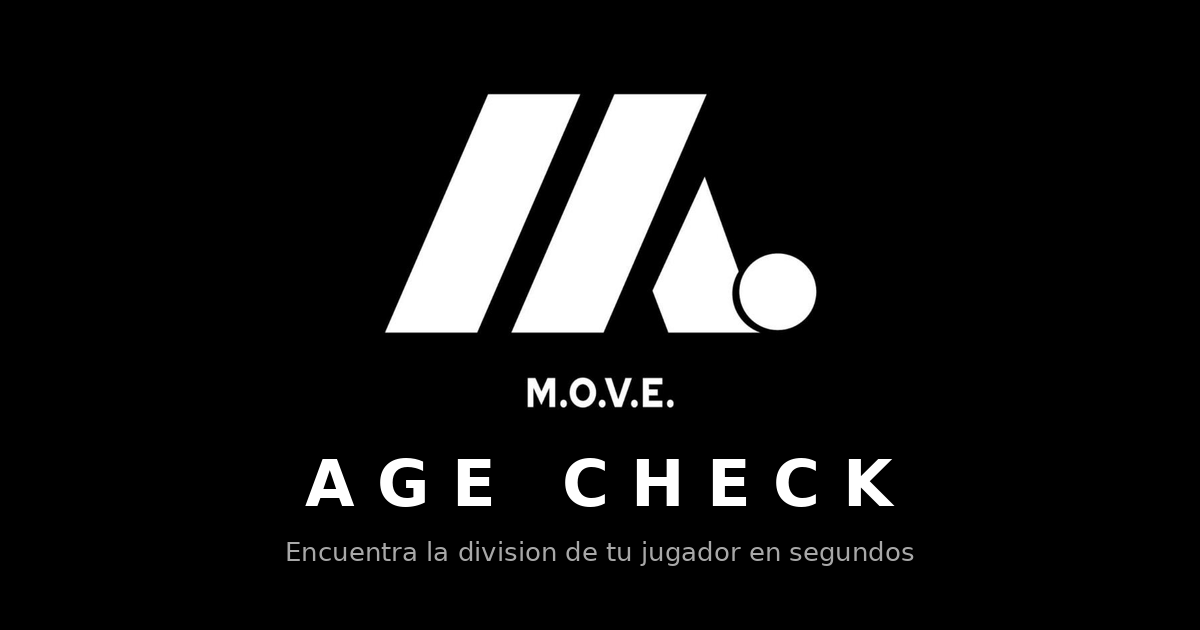
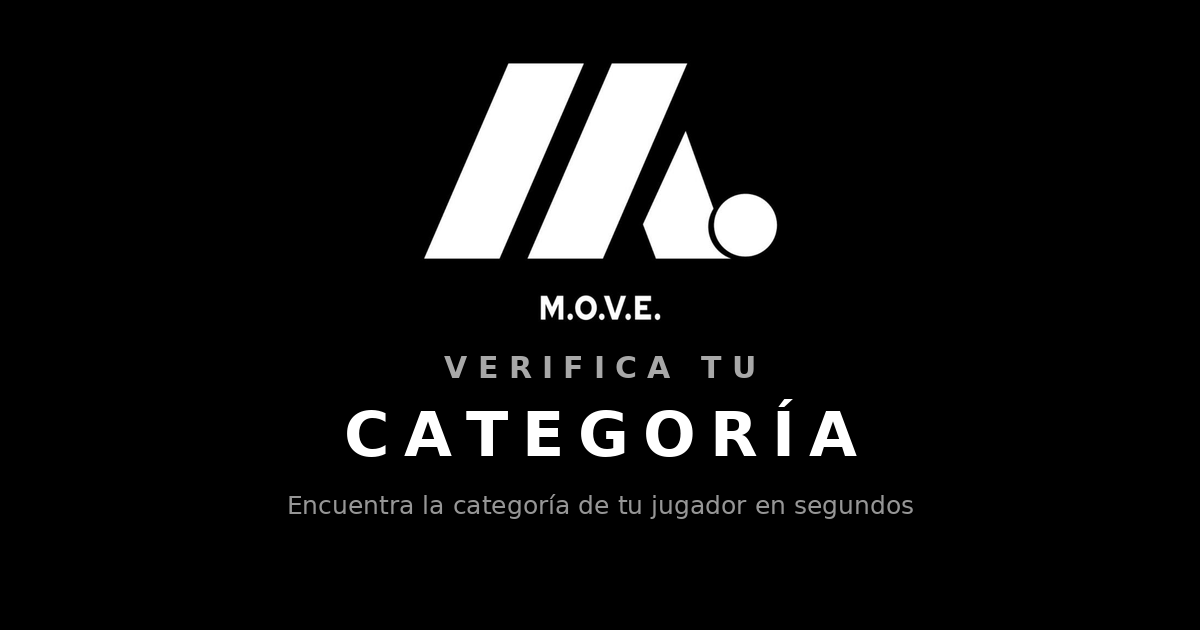
Add files via upload

Changed region(s): [[0.2158, 0.0905, 0.7708, 0.8143], [0.2467, 0.8444, 0.7708, 0.9048], [0.37, 0.181, 0.4008, 0.3317]]

diff --git a/index.html b/index.html
@@ -3,15 +3,15 @@
 <head>
 <meta charset="UTF-8">
 <meta name="viewport" content="width=device-width, initial-scale=1.0">
-<title>MOVE Age Check</title>
-<meta name="description" content="Encuentra la divisi&oacute;n de tu jugador en segundos. Corte de edad del ciclo con fecha l&iacute;mite 1 de julio de 2027.">
+<title>MOVE Verifica tu Categor&iacute;a</title>
+<meta name="description" content="Encuentra la categor&iacute;a de tu jugador en segundos. Corte de edad del ciclo con fecha l&iacute;mite 1 de julio de 2027.">
 <meta property="og:type" content="website">
-<meta property="og:title" content="MOVE Age Check">
-<meta property="og:description" content="Encuentra la divisi&oacute;n de tu jugador en segundos. Selecciona a&ntilde;o y mes de nacimiento y listo.">
-<meta property="og:image" content="https://move-agecheck.vercel.app/og-image.png">
+<meta property="og:title" content="MOVE Verifica tu Categor&iacute;a">
+<meta property="og:description" content="Encuentra la categor&iacute;a de tu jugador en segundos. Selecciona a&ntilde;o y mes de nacimiento y listo.">
+<meta property="og:image" content="https://categoria.thegriit.com/og-image.png">
 <meta property="og:image:width" content="1200">
 <meta property="og:image:height" content="630">
-<meta property="og:url" content="https://move-agecheck.vercel.app/">
+<meta property="og:url" content="https://categoria.thegriit.com/">
 <meta name="twitter:card" content="summary_large_image">
 <link rel="manifest" href="manifest.json">
 <link rel="apple-touch-icon" href="icon-192.png">
@@ -55,12 +55,30 @@
     margin: 0 auto 10px;
   }
   .app-name {
-    font-size: 26px;
+    font-size: 15px;
+    font-weight: 700;
+    letter-spacing: 0.3em;
+    text-transform: uppercase;
+    margin: 0 0 2px;
+    padding-left: 0.3em;
+    color: var(--gray-4);
+  }
+  .app-name-main {
+    font-size: 30px;
     font-weight: 800;
-    letter-spacing: 0.28em;
+    letter-spacing: 0.18em;
     text-transform: uppercase;
     margin: 0;
-    padding-left: 0.28em;
+    padding-left: 0.18em;
+  }
+  .season {
+    font-size: 12px;
+    font-weight: 700;
+    letter-spacing: 0.22em;
+    text-transform: uppercase;
+    color: var(--gray-3);
+    margin: 8px 0 0;
+    padding-left: 0.22em;
   }
   .diag-rule {
     height: 3px;
@@ -92,7 +110,8 @@
     display: grid;
     gap: 10px;
   }
-  .grid-years { grid-template-columns: 1fr 1fr; }
+  .grid-years { grid-template-columns: 1fr 1fr 1fr; }
+  .grid-years .btn { font-size: 19px; padding: 16px 4px; }
   .grid-months { grid-template-columns: 1fr 1fr 1fr; }
   .btn {
     background: var(--gray-1);
@@ -263,7 +282,9 @@
 <div class="wrap">
   <header>
[1 lines of base64/hex data omitted]
-    <h1 class="app-name">Age Check</h1>
+    <p class="app-name">Verifica tu</p>
+    <h1 class="app-name-main">Categor&iacute;a</h1>
+    <p class="season">Temporada 2026&ndash;2027</p>
     <div class="diag-rule"></div>
   </header>
 
@@ -352,12 +373,7 @@
 
     var grid = el("div", "grid grid-years");
 
-    var older = el("button", "btn btn-wide", "2007 o antes");
-    older.type = "button";
-    older.addEventListener("click", function () { renderResult(null, null, "older"); });
-    grid.appendChild(older);
-
-    for (var y = 2008; y <= 2018; y++) {
+    for (var y = 2008; y <= 2019; y++) {
       (function (year) {
         var b = el("button", "btn", String(year));
         b.type = "button";
@@ -365,11 +381,6 @@
         grid.appendChild(b);
       })(y);
     }
-
-    var younger = el("button", "btn btn-wide", "2019 o despu\u00e9s");
-    younger.type = "button";
-    younger.addEventListener("click", function () { renderResult(2019, null, null); });
-    grid.appendChild(younger);
 
     step.appendChild(grid);
     app.appendChild(step);
@@ -430,7 +441,7 @@
       birthText = "Nacido en 2007 o antes";
     } else if (year !== null && monthIndex === null) {
       division = YOUNGEST_DIVISION;
-      birthText = year >= 2019 ? "Nacido en 2019 o despu\u00e9s" : "Nacido en " + year;
+      birthText = "Nacido en " + year;
     } else {
       var vy = vbYear(year, monthIndex);
       division = divisionFor(vy);
@@ -439,7 +450,7 @@
 
     if (division) {
       box.appendChild(el("p", "result-division", division));
-      box.appendChild(el("p", "result-caption", "Su divisi\u00f3n"));
+      box.appendChild(el("p", "result-caption", "Su categor\u00eda"));
       box.appendChild(el("p", "result-birth", birthText));
     } else {
       box.appendChild(el("p", "result-division", "\u2014"));

diff --git a/sw.js b/sw.js
@@ -1,4 +1,4 @@
-var CACHE_NAME = "move-age-check-v1";
+var CACHE_NAME = "move-verifica-categoria-v2";
 var FILES = ["./index.html", "./manifest.json", "./icon-192.png", "./icon-512.png"];
 
 self.addEventListener("install", function (event) {